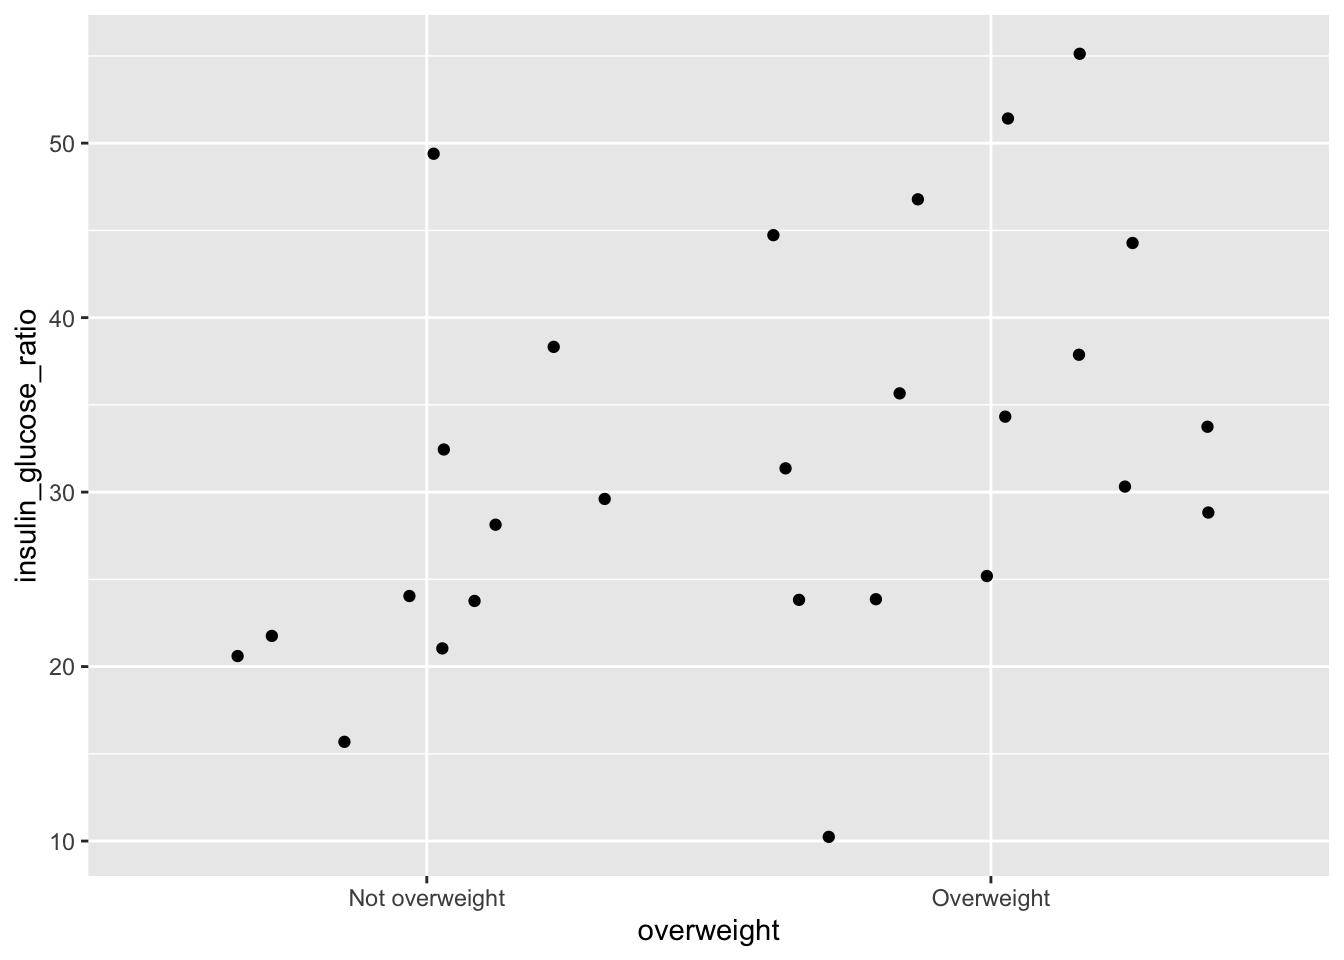
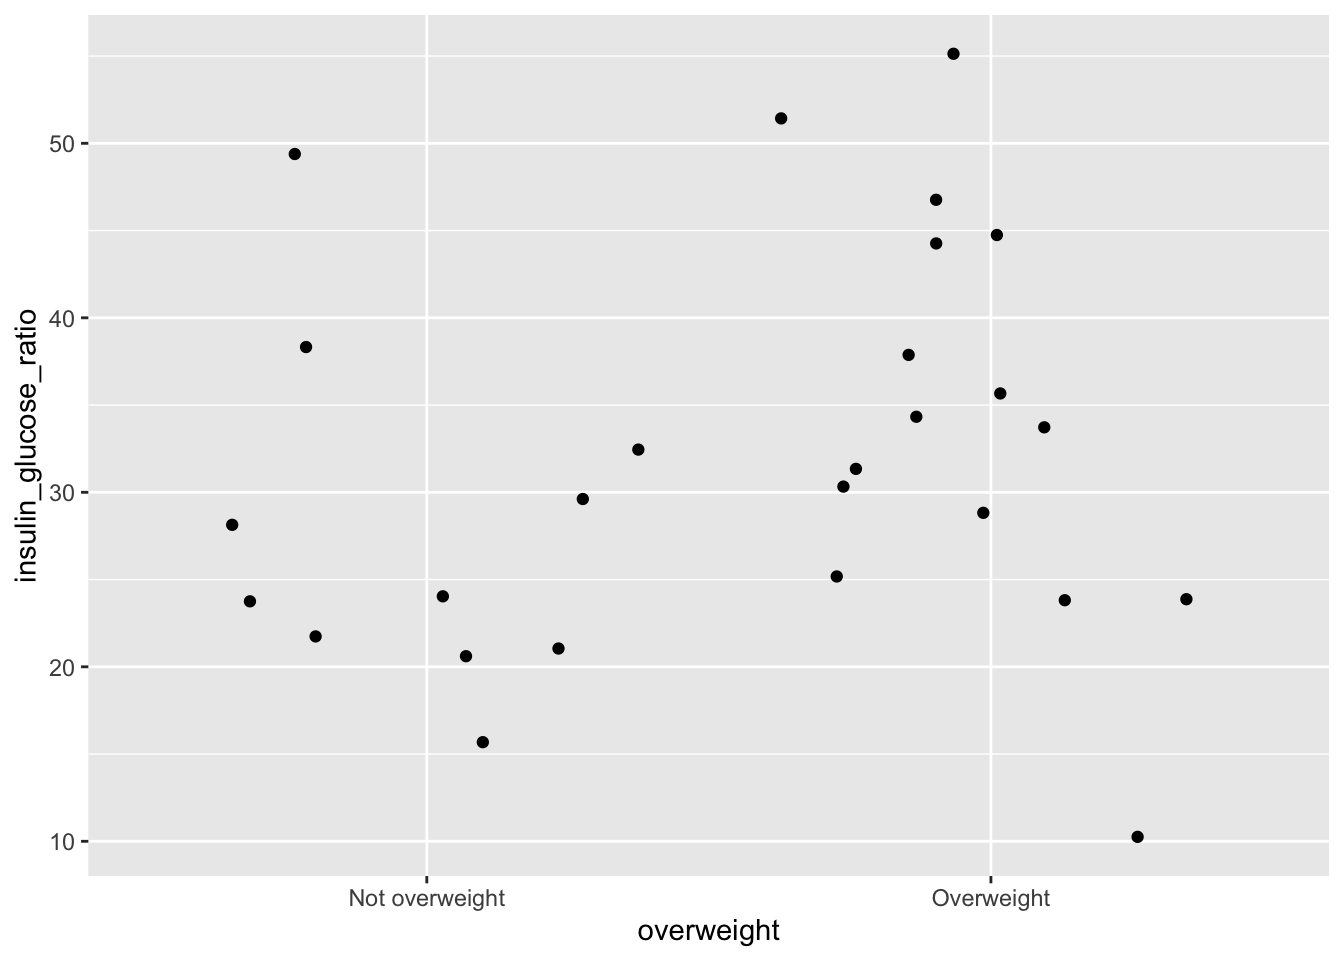
12.4

diff --git a/Uden navn.html b/Uden navn.html
@@ -941,6 +941,66 @@ Figure&nbsp;4: Scatterplot of BMI and the area under the curve for glucose.
 </div>
 </div>
 </section>
+<section id="make-multi-dimensional-plots" class="level2">
+<h2 class="anchored" data-anchor-id="make-multi-dimensional-plots">Make multi-dimensional plots!</h2>
+<div class="sourceCode cell-code" id="cb69"><pre class="sourceCode r code-with-copy"><code class="sourceCode r"><span id="cb69-1"><a href="#cb69-1" aria-hidden="true" tabindex="-1"></a><span class="co"># Task 1.</span></span>
+<span id="cb69-2"><a href="#cb69-2" aria-hidden="true" tabindex="-1"></a>post_meal_data <span class="sc">|&gt;</span></span>
+<span id="cb69-3"><a href="#cb69-3" aria-hidden="true" tabindex="-1"></a>  <span class="fu">mutate</span>(</span>
+<span id="cb69-4"><a href="#cb69-4" aria-hidden="true" tabindex="-1"></a>    <span class="at">percent_body_fat =</span> (Fat.mass.DXA <span class="sc">/</span> Weight) <span class="sc">*</span> <span class="dv">100</span>,</span>
+<span id="cb69-5"><a href="#cb69-5" aria-hidden="true" tabindex="-1"></a>    <span class="at">young =</span> <span class="fu">if_else</span>(Age <span class="sc">&lt;</span> <span class="dv">40</span>, <span class="st">"Young"</span>, <span class="st">"Old"</span>)</span>
+<span id="cb69-6"><a href="#cb69-6" aria-hidden="true" tabindex="-1"></a>  ) <span class="sc">|&gt;</span></span>
+<span id="cb69-7"><a href="#cb69-7" aria-hidden="true" tabindex="-1"></a>  <span class="fu">ggplot</span>(<span class="fu">aes</span>(<span class="at">x =</span> Group, <span class="at">y =</span> percent_body_fat, <span class="at">colour =</span> young)) <span class="sc">+</span></span>
+<span id="cb69-8"><a href="#cb69-8" aria-hidden="true" tabindex="-1"></a>  <span class="fu">geom_jitter</span>(<span class="at">width =</span> <span class="fl">0.2</span>)</span>
+<span id="cb69-9"><a href="#cb69-9" aria-hidden="true" tabindex="-1"></a></span>
+<span id="cb69-10"><a href="#cb69-10" aria-hidden="true" tabindex="-1"></a><span class="co"># Task 2.</span></span>
+<span id="cb69-11"><a href="#cb69-11" aria-hidden="true" tabindex="-1"></a>post_meal_data <span class="sc">|&gt;</span></span>
+<span id="cb69-12"><a href="#cb69-12" aria-hidden="true" tabindex="-1"></a>  <span class="fu">mutate</span>(</span>
+<span id="cb69-13"><a href="#cb69-13" aria-hidden="true" tabindex="-1"></a>    <span class="at">insulin_glucose_ratio =</span> (auc_ins <span class="sc">/</span> auc_pg),</span>
+<span id="cb69-14"><a href="#cb69-14" aria-hidden="true" tabindex="-1"></a>    <span class="at">insulin_insensitive =</span> <span class="fu">if_else</span>(insulin_glucose_ratio <span class="sc">&gt;</span> <span class="fu">mean</span>(insulin_glucose_ratio), <span class="st">"Insensitive"</span>, <span class="st">"Sensitive"</span>)</span>
+<span id="cb69-15"><a href="#cb69-15" aria-hidden="true" tabindex="-1"></a>  ) <span class="sc">|&gt;</span></span>
+<span id="cb69-16"><a href="#cb69-16" aria-hidden="true" tabindex="-1"></a>  <span class="fu">ggplot</span>(<span class="fu">aes</span>(<span class="at">x =</span> BMI, <span class="at">y =</span> Bone.mineral.DXA)) <span class="sc">+</span></span>
+<span id="cb69-17"><a href="#cb69-17" aria-hidden="true" tabindex="-1"></a>  <span class="fu">geom_point</span>() <span class="sc">+</span></span>
+<span id="cb69-18"><a href="#cb69-18" aria-hidden="true" tabindex="-1"></a>  <span class="fu">geom_smooth</span>() <span class="sc">+</span></span>
+<span id="cb69-19"><a href="#cb69-19" aria-hidden="true" tabindex="-1"></a>  <span class="fu">facet_grid</span>(<span class="at">cols =</span> <span class="fu">vars</span>(insulin_insensitive))</span></code><button title="Copy to Clipboard" class="code-copy-button"><i class="bi"></i></button></pre></div>
+<div class="cell-output cell-output-stderr">
+<pre><code>`geom_smooth()` using method = 'loess' and formula = 'y ~ x'</code></pre>
+</div>
+<div id="fig-multidimensional" class="quarto-layout-panel">
+<figure class="quarto-float quarto-float-fig figure">
+<div aria-describedby="fig-multidimensional-caption-0ceaefa1-69ba-4598-a22c-09a6ac19f8ca">
+<div class="quarto-layout-row">
+<div class="cell-output-display quarto-layout-cell-subref quarto-layout-cell" data-ref-parent="fig-multidimensional" style="flex-basis: 50.0%;justify-content: flex-start;">
+<div id="fig-multidimensional-1" class="quarto-float quarto-figure quarto-figure-center anchored">
+<figure class="quarto-float quarto-subfloat-fig figure">
+<div aria-describedby="fig-multidimensional-1-caption-0ceaefa1-69ba-4598-a22c-09a6ac19f8ca">
+<img src="Uden-navn_files/figure-html/fig-multidimensional-1.png" class="img-fluid figure-img" data-ref-parent="fig-multidimensional" width="672">
+</div>
+<figcaption class="quarto-float-caption-bottom quarto-subfloat-caption quarto-subfloat-fig" id="fig-multidimensional-1-caption-0ceaefa1-69ba-4598-a22c-09a6ac19f8ca">
+(a) Distribution of percent body fat by group and age category.
+</figcaption>
+</figure>
+</div>
+</div>
+<div class="cell-output-display quarto-layout-cell-subref quarto-layout-cell" data-ref-parent="fig-multidimensional" style="flex-basis: 50.0%;justify-content: flex-start;">
+<div id="fig-multidimensional-2" class="quarto-float quarto-figure quarto-figure-center anchored">
+<figure class="quarto-float quarto-subfloat-fig figure">
+<div aria-describedby="fig-multidimensional-2-caption-0ceaefa1-69ba-4598-a22c-09a6ac19f8ca">
+<img src="Uden-navn_files/figure-html/fig-multidimensional-2.png" class="img-fluid figure-img" data-ref-parent="fig-multidimensional" width="672">
+</div>
+<figcaption class="quarto-float-caption-bottom quarto-subfloat-caption quarto-subfloat-fig" id="fig-multidimensional-2-caption-0ceaefa1-69ba-4598-a22c-09a6ac19f8ca">
+(b) Relationship between BMI and bone mineral density, split by insulin sensitivity.
+</figcaption>
+</figure>
+</div>
+</div>
+</div>
+</div>
+<figcaption class="quarto-float-caption-bottom quarto-float-caption quarto-float-fig" id="fig-multidimensional-caption-0ceaefa1-69ba-4598-a22c-09a6ac19f8ca">
+Figure&nbsp;5: Two, mult-dimensional plots of our data.
+</figcaption>
+</figure>
+</div>
+</section>
 
 </main>
 <!-- /main column -->
